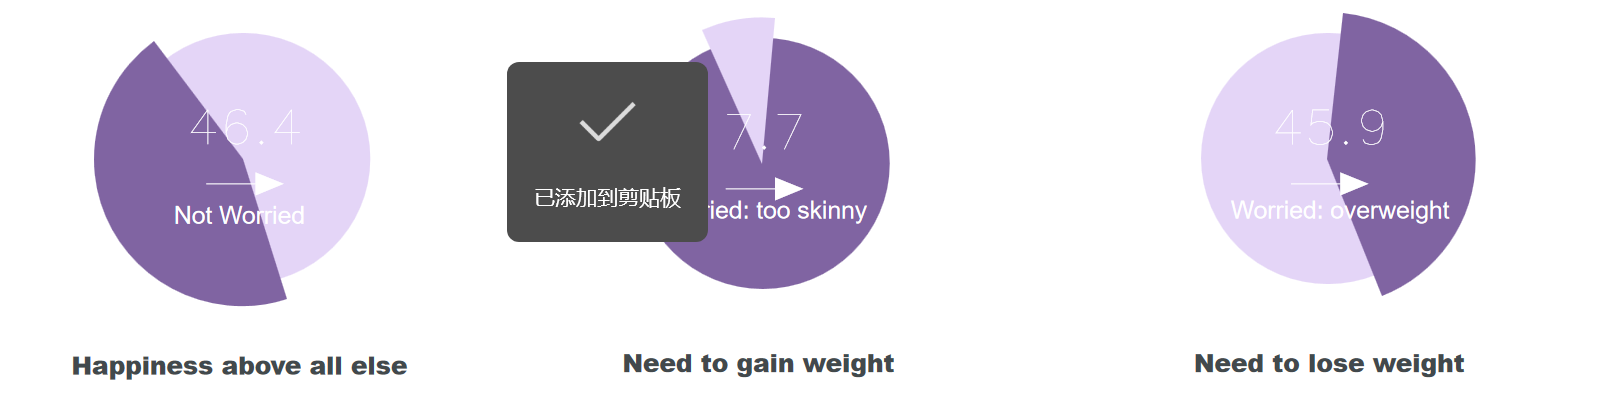
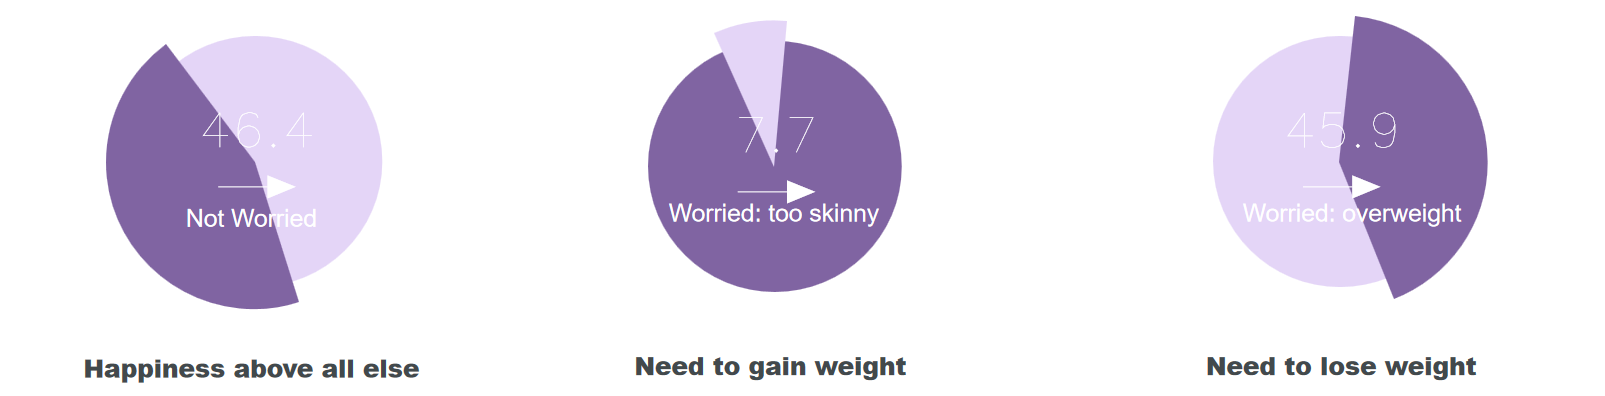
fix: fresh images from docx, white overlay 75%

diff --git a/src/components/layout/Layout.jsx b/src/components/layout/Layout.jsx
@@ -57,7 +57,7 @@ export default function Layout() {
             className="absolute inset-0 bg-cover bg-center bg-fixed"
             style={{ backgroundImage: `url("${bgImage}")`, filter: 'blur(24px)', transform: 'scale(1.1)' }}
           />
-          <div className="absolute inset-0" style={{ background: dark ? 'rgba(0,0,0,0.65)' : 'rgba(255,255,255,0.65)' }} />
+          <div className="absolute inset-0" style={{ background: dark ? 'rgba(0,0,0,0.65)' : 'rgba(255,255,255,0.75)' }} />
         </div>
       )}
     </div>